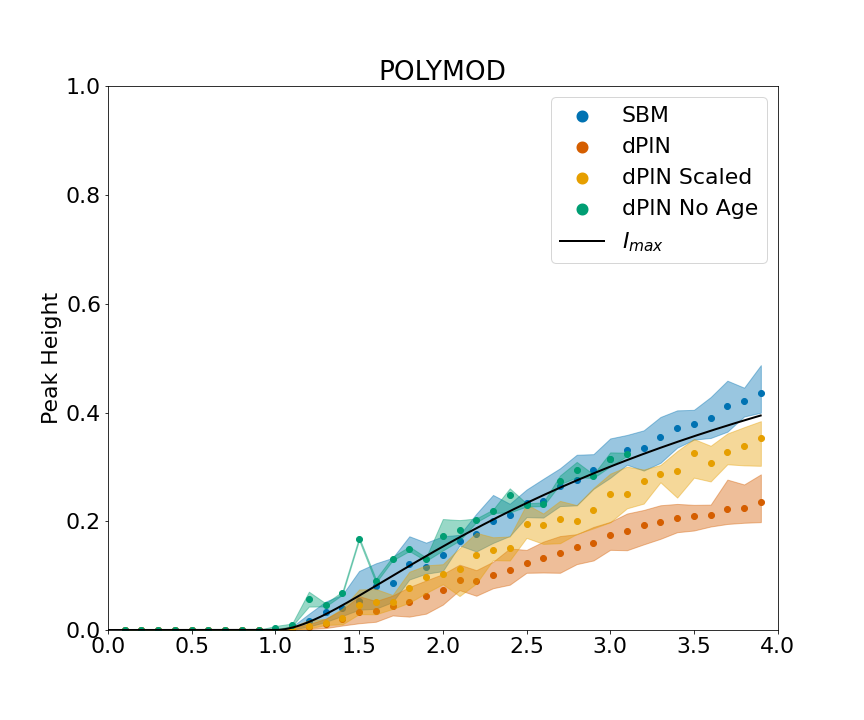
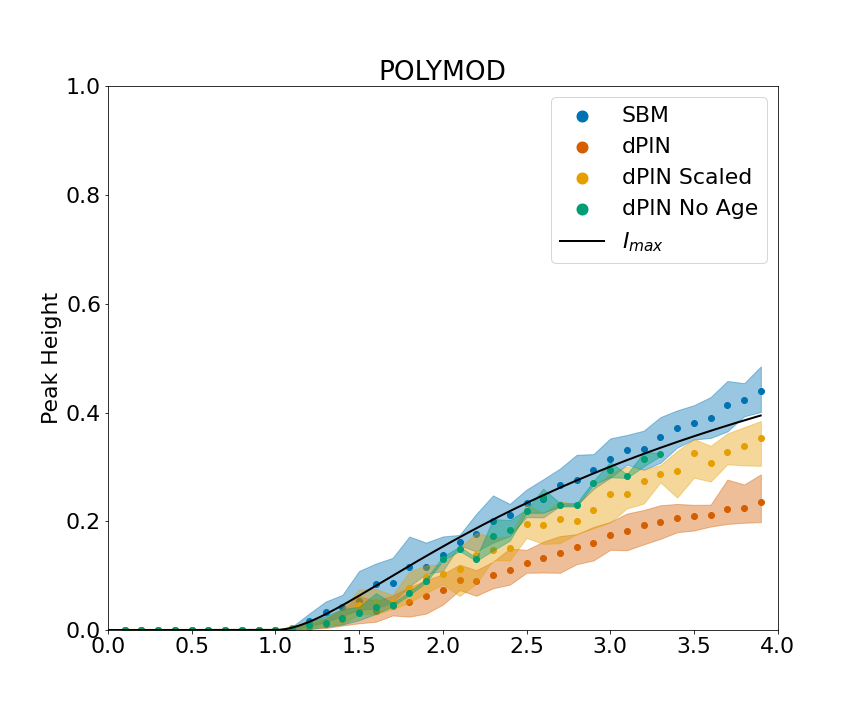
no age c2 7

Changed region(s): [[0.3125, 0.6111, 0.7812, 0.8861], [0.8438, 0.5194, 0.875, 0.55], [0.7812, 0.55, 0.8125, 0.5806]]

diff --git a/_final_sellke_noage_c2.py b/_final_sellke_noage_c2.py
@@ -32,12 +32,16 @@ scales = ['fit1']
 # taus = [[20*x for x in a] for a in taus]
 ## 4,5
 # taus = [[np.arange(0.001,0.07,0.001)]]
-taus = [[np.arange(0.001,0.05,0.001)]]
+# taus = [[np.arange(0.001,0.05,0.001)]]
 # taus = [[np.arange(0.001,0.05,0.002)]]
 ## 6,7
 # taus = [[np.arange(0.4,0.605,0.005)]]
-# taus = [[np.arange(0.07,0.09,0.002)]]
+taus = [[np.arange(0.07,0.09,0.002)]]
 # taus = [[np.arange(0.05,0.09,0.002)]]
+## 8,9
+# taus = [[np.arange(0.005,0.205,0.005)]]
+# taus = [[np.arange(0.001,0.02,0.002)]]
+# taus = [[np.arange(0.001,0.04,0.002)]]
 
 
 for i, data in enumerate(datas):
@@ -51,6 +55,6 @@ for i, data in enumerate(datas):
         df = pd.read_csv(f'input_data/{data}.csv')
         _, contact_matrix, params = nd_p.fit_to_data(df=df,dist_type=model, buckets=buckets, save_fig=False)
         result = nd_p.big_sellke_sims(partitions=partitions,contact_matrix=contact_matrix,network_params=params,n=n,dist_type=model,num_networks=1,iterations=iters, taus=taus[i][j],prop_infec=10/n, scaling=scales[j])
-        with open(f'../output_data/simulations/big/sellke/SIR/5_{data}_{model}_{scales[j]}_noage5.json','w') as f:
+        with open(f'../output_data/simulations/big/sellke/SIR/7_{data}_{model}_{scales[j]}_noage5.json','w') as f:
             json.dump(result, f)
 print('done')
